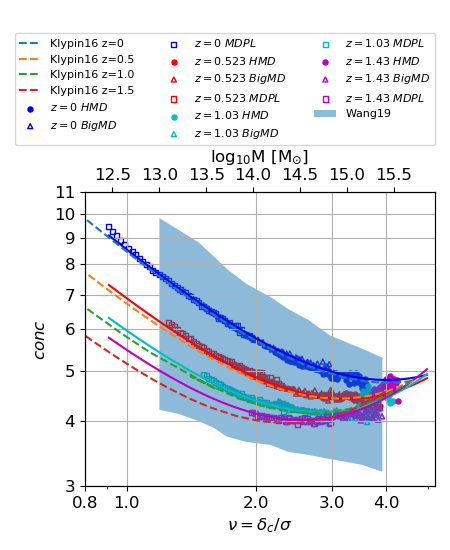
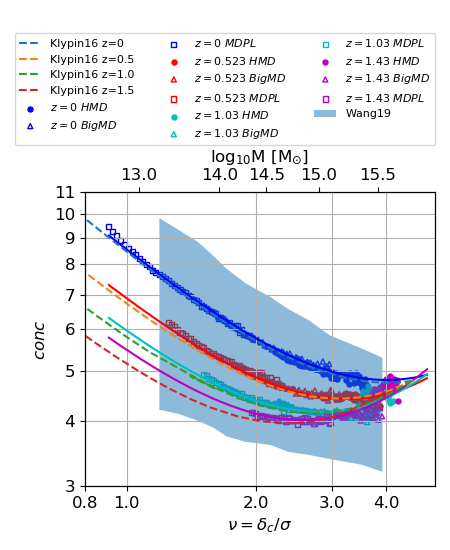
fixing secondary x-axis with properly scaled mass values

Changed region(s): [[0.2178, 0.3091, 0.9333, 0.34]]

diff --git a/Rvir/xoff/xoff_sigma_relation_Rvir.py b/Rvir/xoff/xoff_sigma_relation_Rvir.py
@@ -20,6 +20,7 @@ import matplotlib
 matplotlib.use('Agg')
 import matplotlib.pyplot as plt
 from matplotlib.ticker import ScalarFormatter
+from matplotlib.ticker import NullFormatter
 import astropy.units as u
 import astropy.constants as cc
 import astropy.io.fits as fits
@@ -331,6 +332,13 @@ def Xoff_log(x):
     y = 10**x
     return y/h
 
+def peak_mass(x):
+    M=10**x
+    r=peaks.lagrangianR(M*h)
+    sigma=cosmo.sigma(r,z=0)
+    nu=dc/sigma
+    return nu
+
 
 ax1.set_xscale('log')
 #ax1.set_yscale('log')
@@ -343,36 +351,25 @@ ax1.yaxis.set_major_formatter(ScalarFormatter())
 ax1.ticklabel_format(axis='both', style='plain')
 
 ax1_sec = ax1.twiny()
-new_tick_locations = np.array([12.5,13.0,13.5,14.0, 14.5, 15.0, 15.5])
-xmin,xmax=ax1.get_xlim()
-ax1_sec.set_xlim(Mass_peak(xmin),Mass_peak(xmax))
-print(xmin,xmax)
-print(Mass_peak(xmin),Mass_peak(xmax))
-#ax1_sec.set_xscale('log')
+ax1_sec.set_xscale('log')
+ax1_sec.set_xlim(ax1.get_xlim())
+mass_values = np.array([13.0,14.0, 14.5, 15.0, 15.5])
+new_tick_locations = peak_mass(mass_values)
+print(mass_values)
+print(new_tick_locations)
+ax1_sec.xaxis.set_major_formatter(NullFormatter())
+ax1_sec.xaxis.set_minor_formatter(NullFormatter())
+ax1_sec.tick_params(axis='x', which='minor', top=False)
+ax1.tick_params(axis='x', which='minor', bottom=False)
 ax1_sec.set_xticks(new_tick_locations)
-#ax1_sec.plot([],[])
-#ax1_sec.set_xlabel(r'$\log_{10}M\ [M_{\odot}]$', fontsize=20, labelpad=15)
+ax1_sec.set_xticklabels(mass_values)
+#xmin,xmax=ax1.get_xlim()
+#ax1_sec.set_xlim(Mass_peak(xmin),Mass_peak(xmax))
+#print(xmin,xmax)
+#print(Mass_peak(xmin),Mass_peak(xmax))
 #ax1_sec.set_xscale('log')
-#ax1_sec.set_yscale('log')
-#ax1_sec.set_xticks([Mass_sigma(0.6),Mass_sigma(0.8),Mass_sigma(1),Mass_sigma(2),Mass_sigma(3),Mass_sigma(4)])
-#ax1_sec.set_yticks([1.0,1.2,1.4,1.6,1.8,2.0,2.2,2.4])
+#ax1_sec.set_xticks(new_tick_locations)
 
-#ax1_sec2 = ax1.twinx()
-#ymin,ymax=ax1.get_ylim()
-#ax1_sec2.set_ylim((Xoff_log(ymin),Xoff_log(ymax)))
-#ax1_sec2.plot([],[])
-#ax1_sec2.set_xscale('log')
-#ax1_sec2.set_yscale('log')
-#ax1_sec2.set_yticks([Xoff_log(1.0),Xoff_log(1.2),Xoff_log(1.4),Xoff_log(1.6),Xoff_log(1.8),Xoff_log(2.0),Xoff_log(2.2),Xoff_log(2.4)])
-#ax1_sec2.set_xticks([0.6,0.8,1,2,3,4])
-
-#ax1_sec.xaxis.set_major_formatter(ScalarFormatter())
-#ax1_sec.yaxis.set_major_formatter(ScalarFormatter())
-#ax1_sec2.xaxis.set_major_formatter(ScalarFormatter())
-#ax1_sec2.yaxis.set_major_formatter(ScalarFormatter())
-
-#ax1_sec.ticklabel_format(axis='x', style='plain')
-#ax1_sec2.ticklabel_format(axis='y', style='plain')
 ax1.legend(fontsize=8,bbox_to_anchor=(-0.3, 1.16, 1.3, .33), loc='lower left', ncol=3, mode="expand", borderaxespad=0.)
 ax1.set_xlabel(r'$\nu = \delta_c/\sigma$', fontsize=12)
 ax1.set_ylabel(r'$\log_{10}X_{off}$', fontsize=12)

diff --git a/physical/mean_relations/relations_spin.py b/physical/mean_relations/relations_spin.py
@@ -18,6 +18,7 @@ import time
 from astropy.cosmology import FlatLambdaCDM
 import matplotlib.pyplot as plt
 from matplotlib.ticker import ScalarFormatter
+from matplotlib.ticker import NullFormatter
 import astropy.units as u
 import astropy.constants as cc
 import astropy.io.fits as fits
@@ -297,29 +298,49 @@ def Mass_peak(x):
     M=peaks.lagrangianM(r)/h
     return np.log10(M)
 
+def peak_mass(x):
+    M=10**x
+    r=peaks.lagrangianR(M*h)
+    sigma=cosmo.sigma(r,z=0)
+    nu=dc/sigma
+    return nu
+
 #ax2.set_xscale('log')
+ax2.set_xlim(left=0.8,right=4.2)
+ax2.set_xticks([1,2,3,4])
 ax2.xaxis.set_major_formatter(ScalarFormatter())
 ax2.yaxis.set_major_formatter(ScalarFormatter())
 ax2.ticklabel_format(axis='both', style='plain')
-ax2.set_xticks([0.8,1,2,3,4])
+
 ax2_sec = ax2.twiny()
-new_tick_locations = np.array([12.5,13.0,13.5,14.0, 14.5, 15.0, 15.5])
-xmin,xmax=ax2.get_xlim()
-print(xmin,xmax)
-print(Mass_peak(xmin),Mass_peak(xmax))
-ax2_sec.set_xlim(Mass_peak(xmin),Mass_peak(xmax))
 #ax2_sec.set_xscale('log')
+ax2_sec.set_xlim(ax2.get_xlim())
+
+mass_values = np.array([13.0,14.0, 14.5, 15.0, 15.5])
+new_tick_locations = peak_mass(mass_values)
+print(mass_values)
+print(new_tick_locations)
+ax2_sec.xaxis.set_major_formatter(NullFormatter())
+ax2_sec.xaxis.set_minor_formatter(NullFormatter())
+ax2_sec.tick_params(axis='x', which='minor', top=False)
 ax2_sec.set_xticks(new_tick_locations)
+ax2_sec.set_xticklabels(mass_values)
+#xmin,xmax=ax2.get_xlim()
+#print(xmin,xmax)
+#print(Mass_peak(xmin),Mass_peak(xmax))
+#ax2_sec.set_xlim(Mass_peak(xmin),Mass_peak(xmax))
+#ax2_sec.set_xscale('log')
+#ax2_sec.set_xticks(new_tick_locations)
 
 ax2.set_ylabel(r'$\lambda$', fontsize=12)
 ax2.set_xlabel(r'$\nu = \delta_c/\sigma$', fontsize=12)
 ax2_sec.set_xlabel(r'$\log_{10}$M [M$_{\odot}$]', fontsize=12)
 ax2_sec.tick_params(labelsize=12)
 ax2.grid(True)
-ax2.set_xlim(right=4.2)
+#ax2.set_xlim(right=4.2)
 ax2.set_ylim(0.02)
 ax2.legend(fontsize=8,bbox_to_anchor=(-0.3, 1.16, 1.3, .33), loc='lower left', ncol=3, mode="expand", borderaxespad=0.)
-ax2.tick_params(labelsize=12)
+ax2.tick_params(labelsize=12,top=False, labeltop=False)
 fig2.tight_layout()
 outfig2 = os.path.join(this_dir,'figures','relations_spin_sigma.png')
 os.makedirs(os.path.dirname(outfig2), exist_ok=True)

diff --git a/physical/mean_relations/relations_conc.py b/physical/mean_relations/relations_conc.py
@@ -18,6 +18,7 @@ import time
 from astropy.cosmology import FlatLambdaCDM
 import matplotlib.pyplot as plt
 from matplotlib.ticker import ScalarFormatter
+from matplotlib.ticker import NullFormatter
 import astropy.units as u
 import astropy.constants as cc
 import astropy.io.fits as fits
@@ -315,6 +316,12 @@ def Mass_peak(x):
     M=peaks.lagrangianM(r)/h
     return np.log10(M)
 
+def peak_mass(x):
+    M=10**x
+    r=peaks.lagrangianR(M*h)
+    sigma=cosmo.sigma(r,z=0)
+    nu=dc/sigma
+    return nu
 
 ax0.set_ylabel(r'$conc$', fontsize=12)
 ax0.set_xlabel(r'$\nu = \delta_c/\sigma$', fontsize=12)
@@ -331,13 +338,25 @@ ax0.yaxis.set_major_formatter(ScalarFormatter())
 ax0.ticklabel_format(axis='both', style='plain')
 
 ax0_sec = ax0.twiny()
-new_tick_locations = np.array([12.5,13.0,13.5,14.0, 14.5, 15.0, 15.5])
-xmin,xmax=ax0.get_xlim()
-ax0_sec.set_xlim(Mass_peak(xmin),Mass_peak(xmax))
-print(xmin,xmax)
-print(Mass_peak(xmin),Mass_peak(xmax))
-#ax0_sec.set_xscale('log')
+ax0_sec.set_xscale('log')
+ax0_sec.set_xlim(ax0.get_xlim())
+
+mass_values = np.array([13.0,14.0,14.5,15.0,15.5])
+new_tick_locations = peak_mass(mass_values)
+print(mass_values)
+print(new_tick_locations)
+ax0_sec.xaxis.set_major_formatter(NullFormatter())
+ax0_sec.xaxis.set_minor_formatter(NullFormatter())
+ax0_sec.tick_params(axis='x', which='minor', top=False)
+ax0.tick_params(axis='x', which='minor', bottom=False)
 ax0_sec.set_xticks(new_tick_locations)
+ax0_sec.set_xticklabels(mass_values)
+#xmin,xmax=ax0.get_xlim()
+#ax0_sec.set_xlim(Mass_peak(xmin),Mass_peak(xmax))
+#print(xmin,xmax)
+#print(Mass_peak(xmin),Mass_peak(xmax))
+#ax0_sec.set_xscale('log')
+#ax0_sec.set_xticks(new_tick_locations)
 
 ax0.legend(fontsize=8,bbox_to_anchor=(-0.2, 1.16, 1.2, .3), loc='lower left', ncol=3, mode="expand", borderaxespad=0.)
 ax0.tick_params(labelsize=12)
